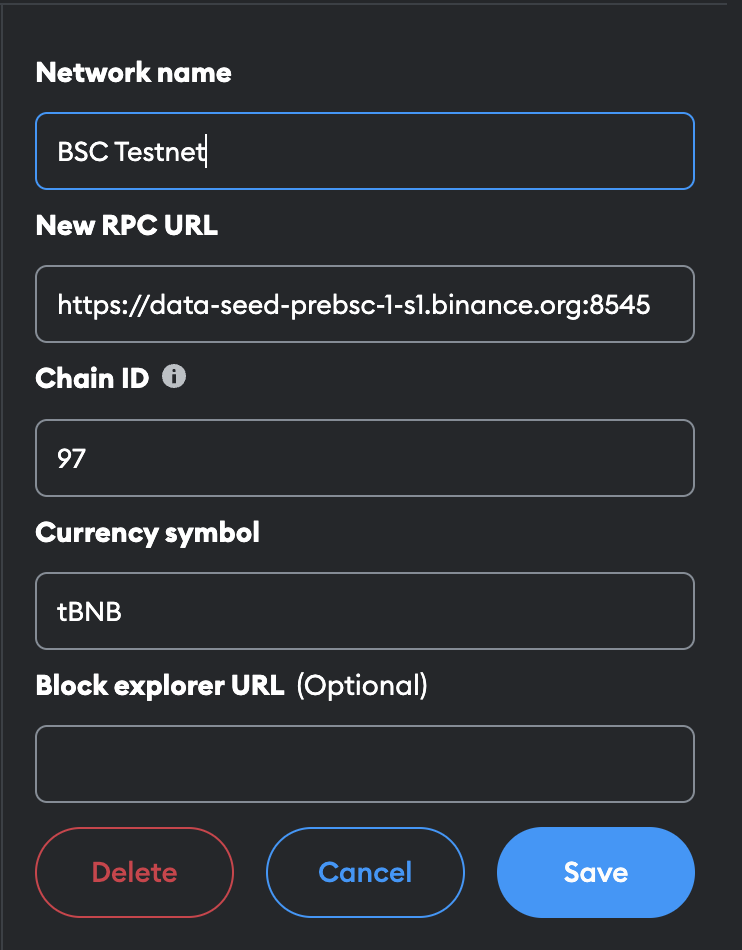
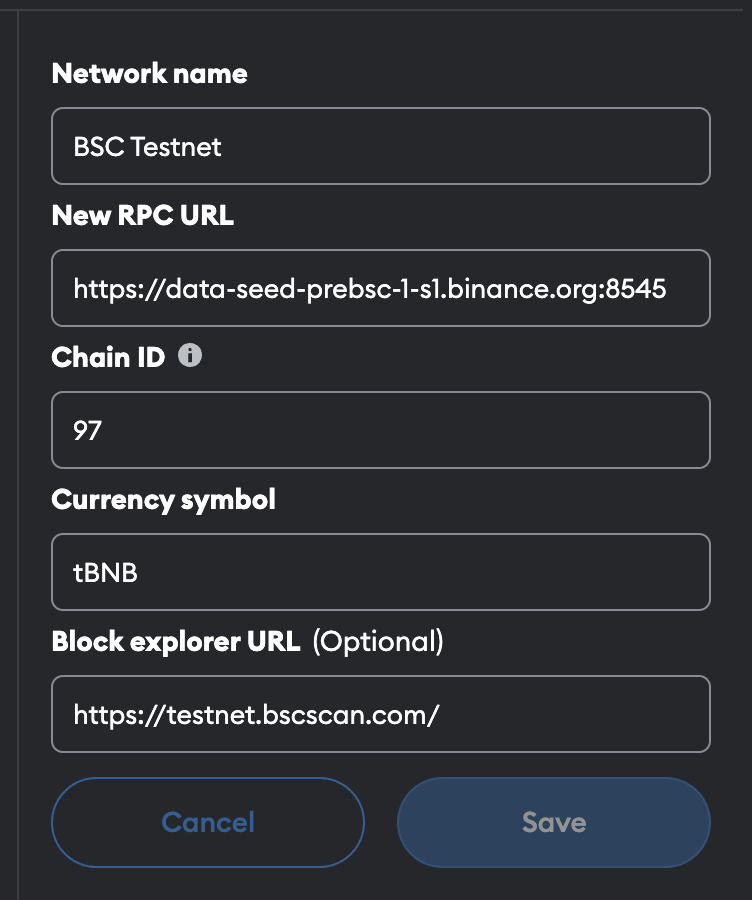
update screenshot of walletconfiguration

Changed region(s): [[0.0, 0.0, 0.9609, 1.0], [0.093, 0.84, 0.9609, 0.9644]]

diff --git a/docs/for-developers/wallet-configuration.md b/docs/for-developers/wallet-configuration.md
@@ -12,23 +12,28 @@ This is a living document and is susceptible to changes.
 
 # Wallet configuration
 
-To configure your Metamask wallet to work with opBNB, you will need to add both the BNB Smart Chain testnet and the opBNB network. Follow these steps: 1. Add the BNB Smart Chain testnet to your Metamask wallet. This is the Layer 1 blockchain that opBNB is built on top of.
+To configure your Metamask wallet to work with opBNB, you will need to add both the BNB Smart Chain testnet and the opBNB network. Follow these steps: 
 
-\- Network Name: BNB Smart Chain Testnet
-\- New RPC URL: [https://data-seed-prebsc-1-s1.binance.org:8545](https://data-seed-prebsc-1-s3.binance.org:8545/)
-\- ChainID: 97
-\- Symbol: BNB
+1. Add the BNB Smart Chain testnet to your Metamask wallet. This is the Layer 1 blockchain that opBNB is built on top of.
 
-![image-20230605150154785](../../static/img/bsc-testnet-config.png)
+   - Network Name: BSC Testnet
+   - New RPC URL: [https://data-seed-prebsc-1-s1.binance.org:8545](https://data-seed-prebsc-1-s3.binance.org:8545/)
+   - ChainID: 97
+   - Symbol: tBNB
+   - Explorer: [https://testnet.bscscan.com/](https://testnet.bscscan.com/)
+
+   ![image-20230615151355713](../../static/img/bsc-testnet-config.png)
 
 
 
 2. Add the opBNB network to your Metamask wallet. This is the actual Layer 2 network you will interact with.
+   - Network Name: opBNB Testnet
+   - New RPC URL: [https://opbnb-testnet-rpc.bnbchain.org](https://opbnb-testnet-rpc.bnbchain.org)
+   - ChainID: 5611
+   - Symbol: tBNB
+   - Explorer: [http://opbnbscan.com/](http://opbnbscan.com/)
 
-   \- Network Name: opBNB Testnet
-   \- New RPC URL: [https://op-bnb-testnet-l2.nodereal.io](https://op-bnb-testnet-l2.nodereal.io)
-   \- ChainID: [put correct ChainID here]
-   \- Symbol: BNB
 
-![image-20230605150429248](../../static/img/opBNB-testnet-config.png)
+
+![image-20230615151623365](../../static/img/opBNB-testnet-config.png)
 
